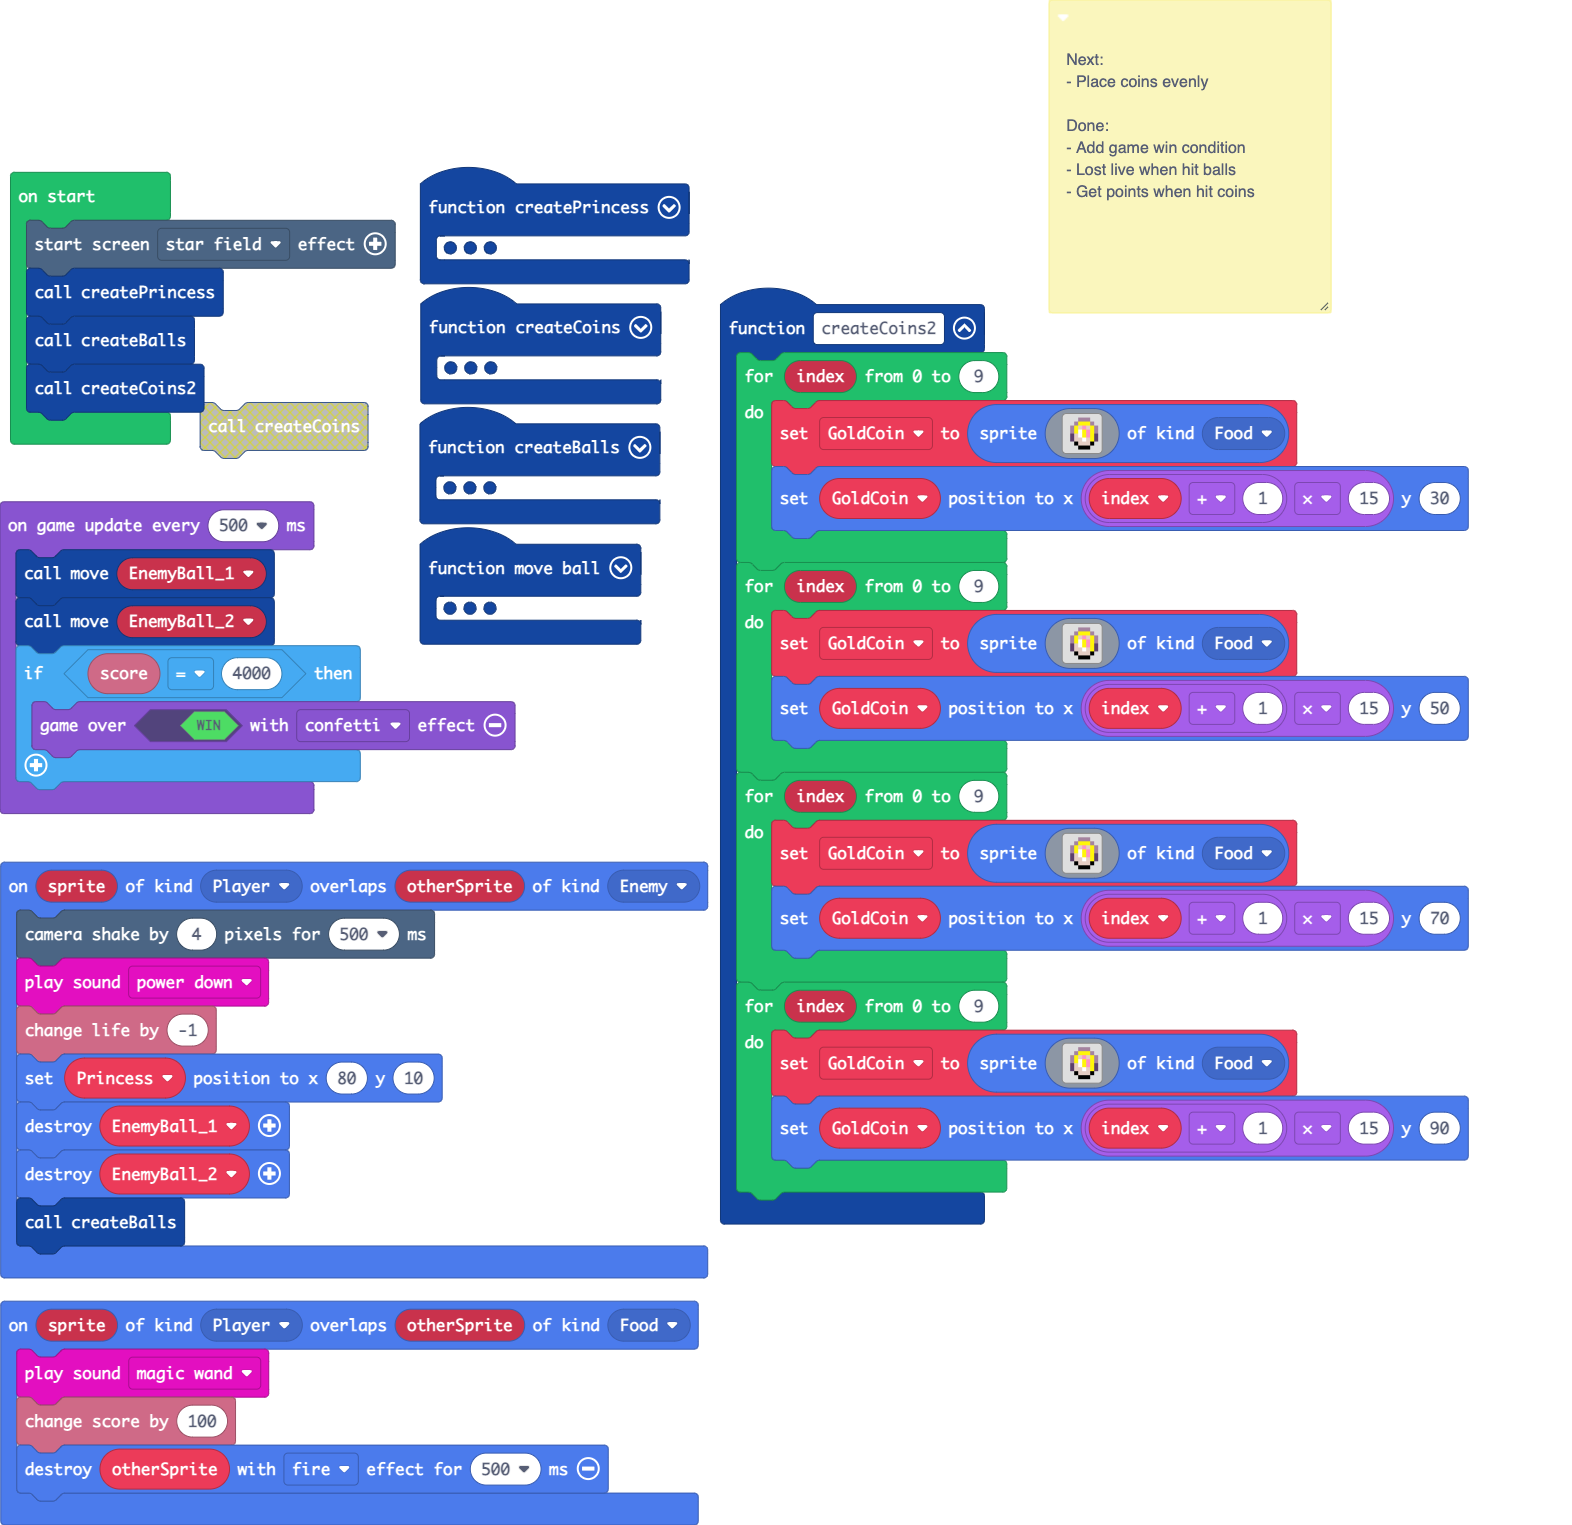
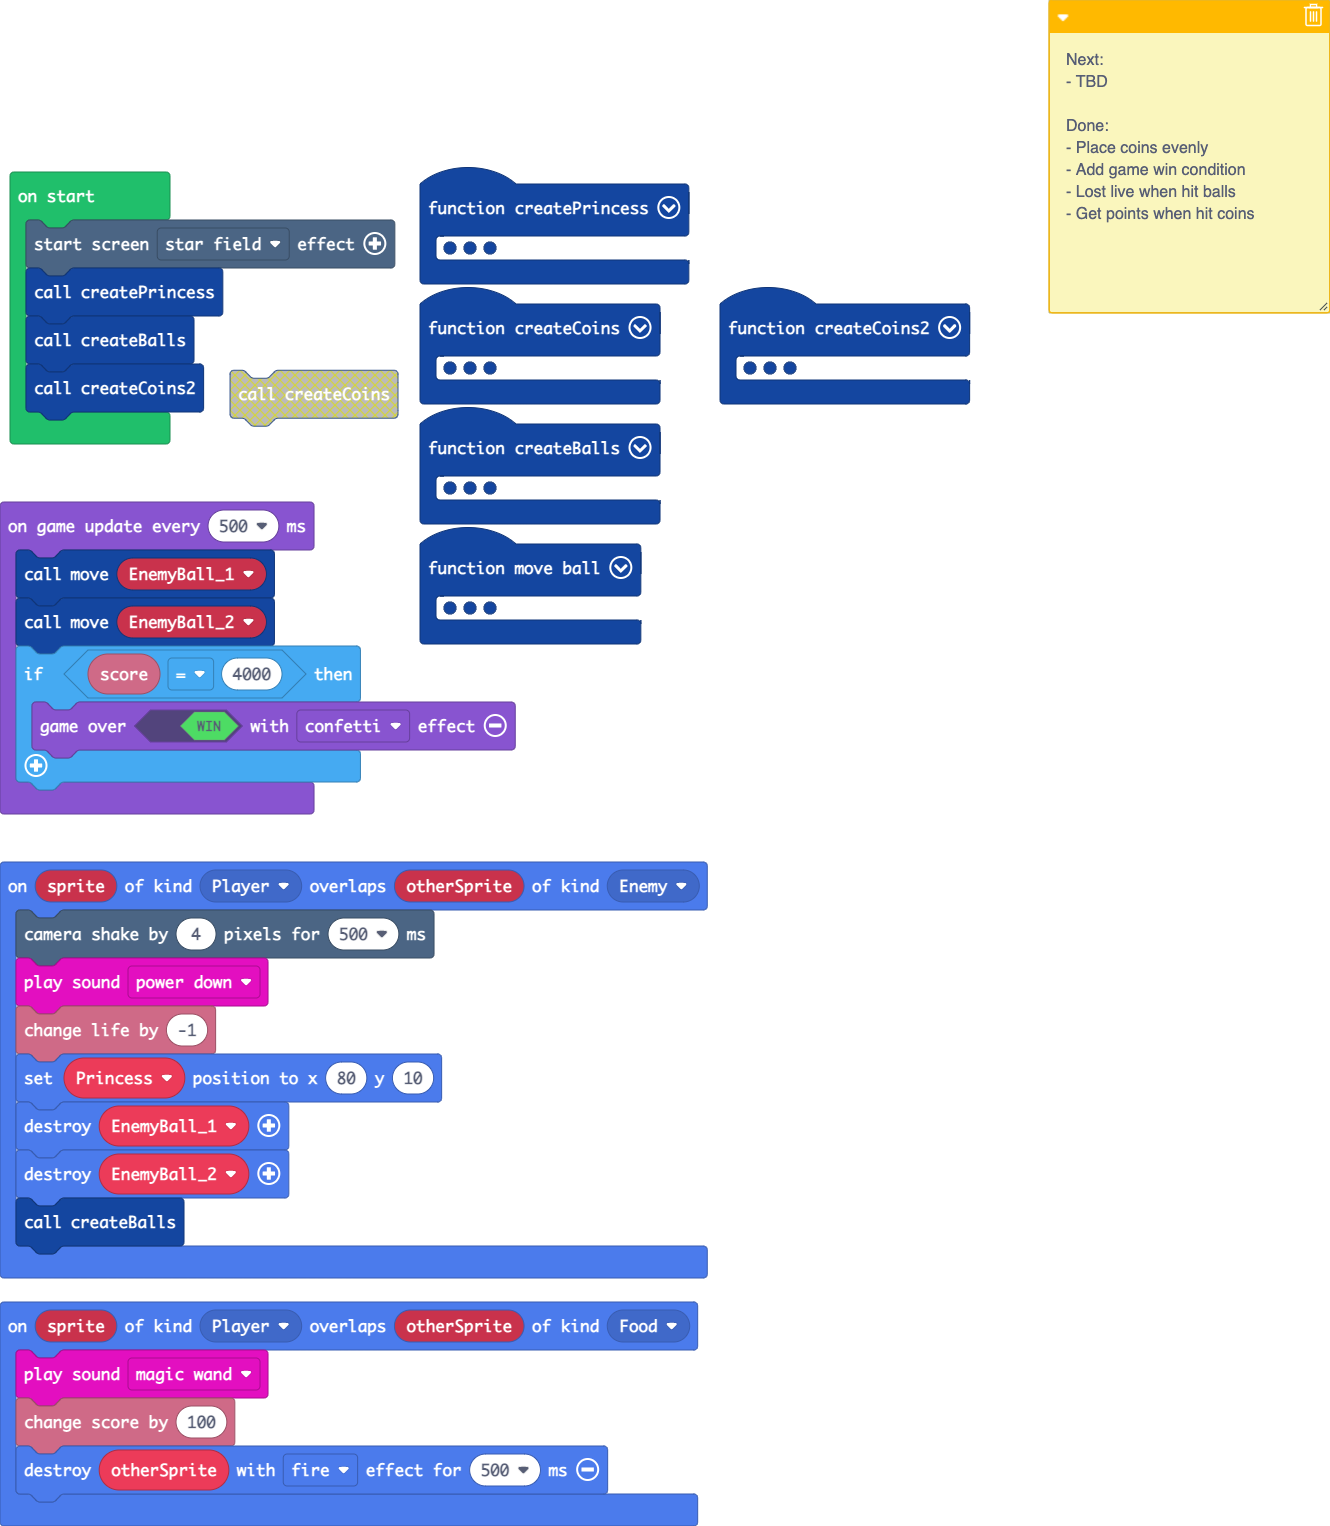
Minor refactoring

diff --git a/main.ts b/main.ts
@@ -1,3 +1,18 @@
+/**
+ * Next:
+ * 
+ * - TBD
+ * 
+ * Done:
+ * 
+ * - Place coins evenly
+ * 
+ * - Add game win condition
+ * 
+ * - Lost live when hit balls
+ * 
+ * - Get points when hit coins
+ */
 function createPrincess () {
     Princess = sprites.create(img`
         . . . . . f f f f . . . . . 
@@ -22,19 +37,6 @@ function createPrincess () {
     controller.moveSprite(Princess)
     info.setLife(3)
 }
-/**
- * Next:
- * 
- * - Place coins evenly
- * 
- * Done:
- * 
- * - Add game win condition
- * 
- * - Lost live when hit balls
- * 
- * - Get points when hit coins
- */
 function createCoins2 () {
     for (let index = 0; index <= 9; index++) {
         GoldCoin = sprites.create(img`
